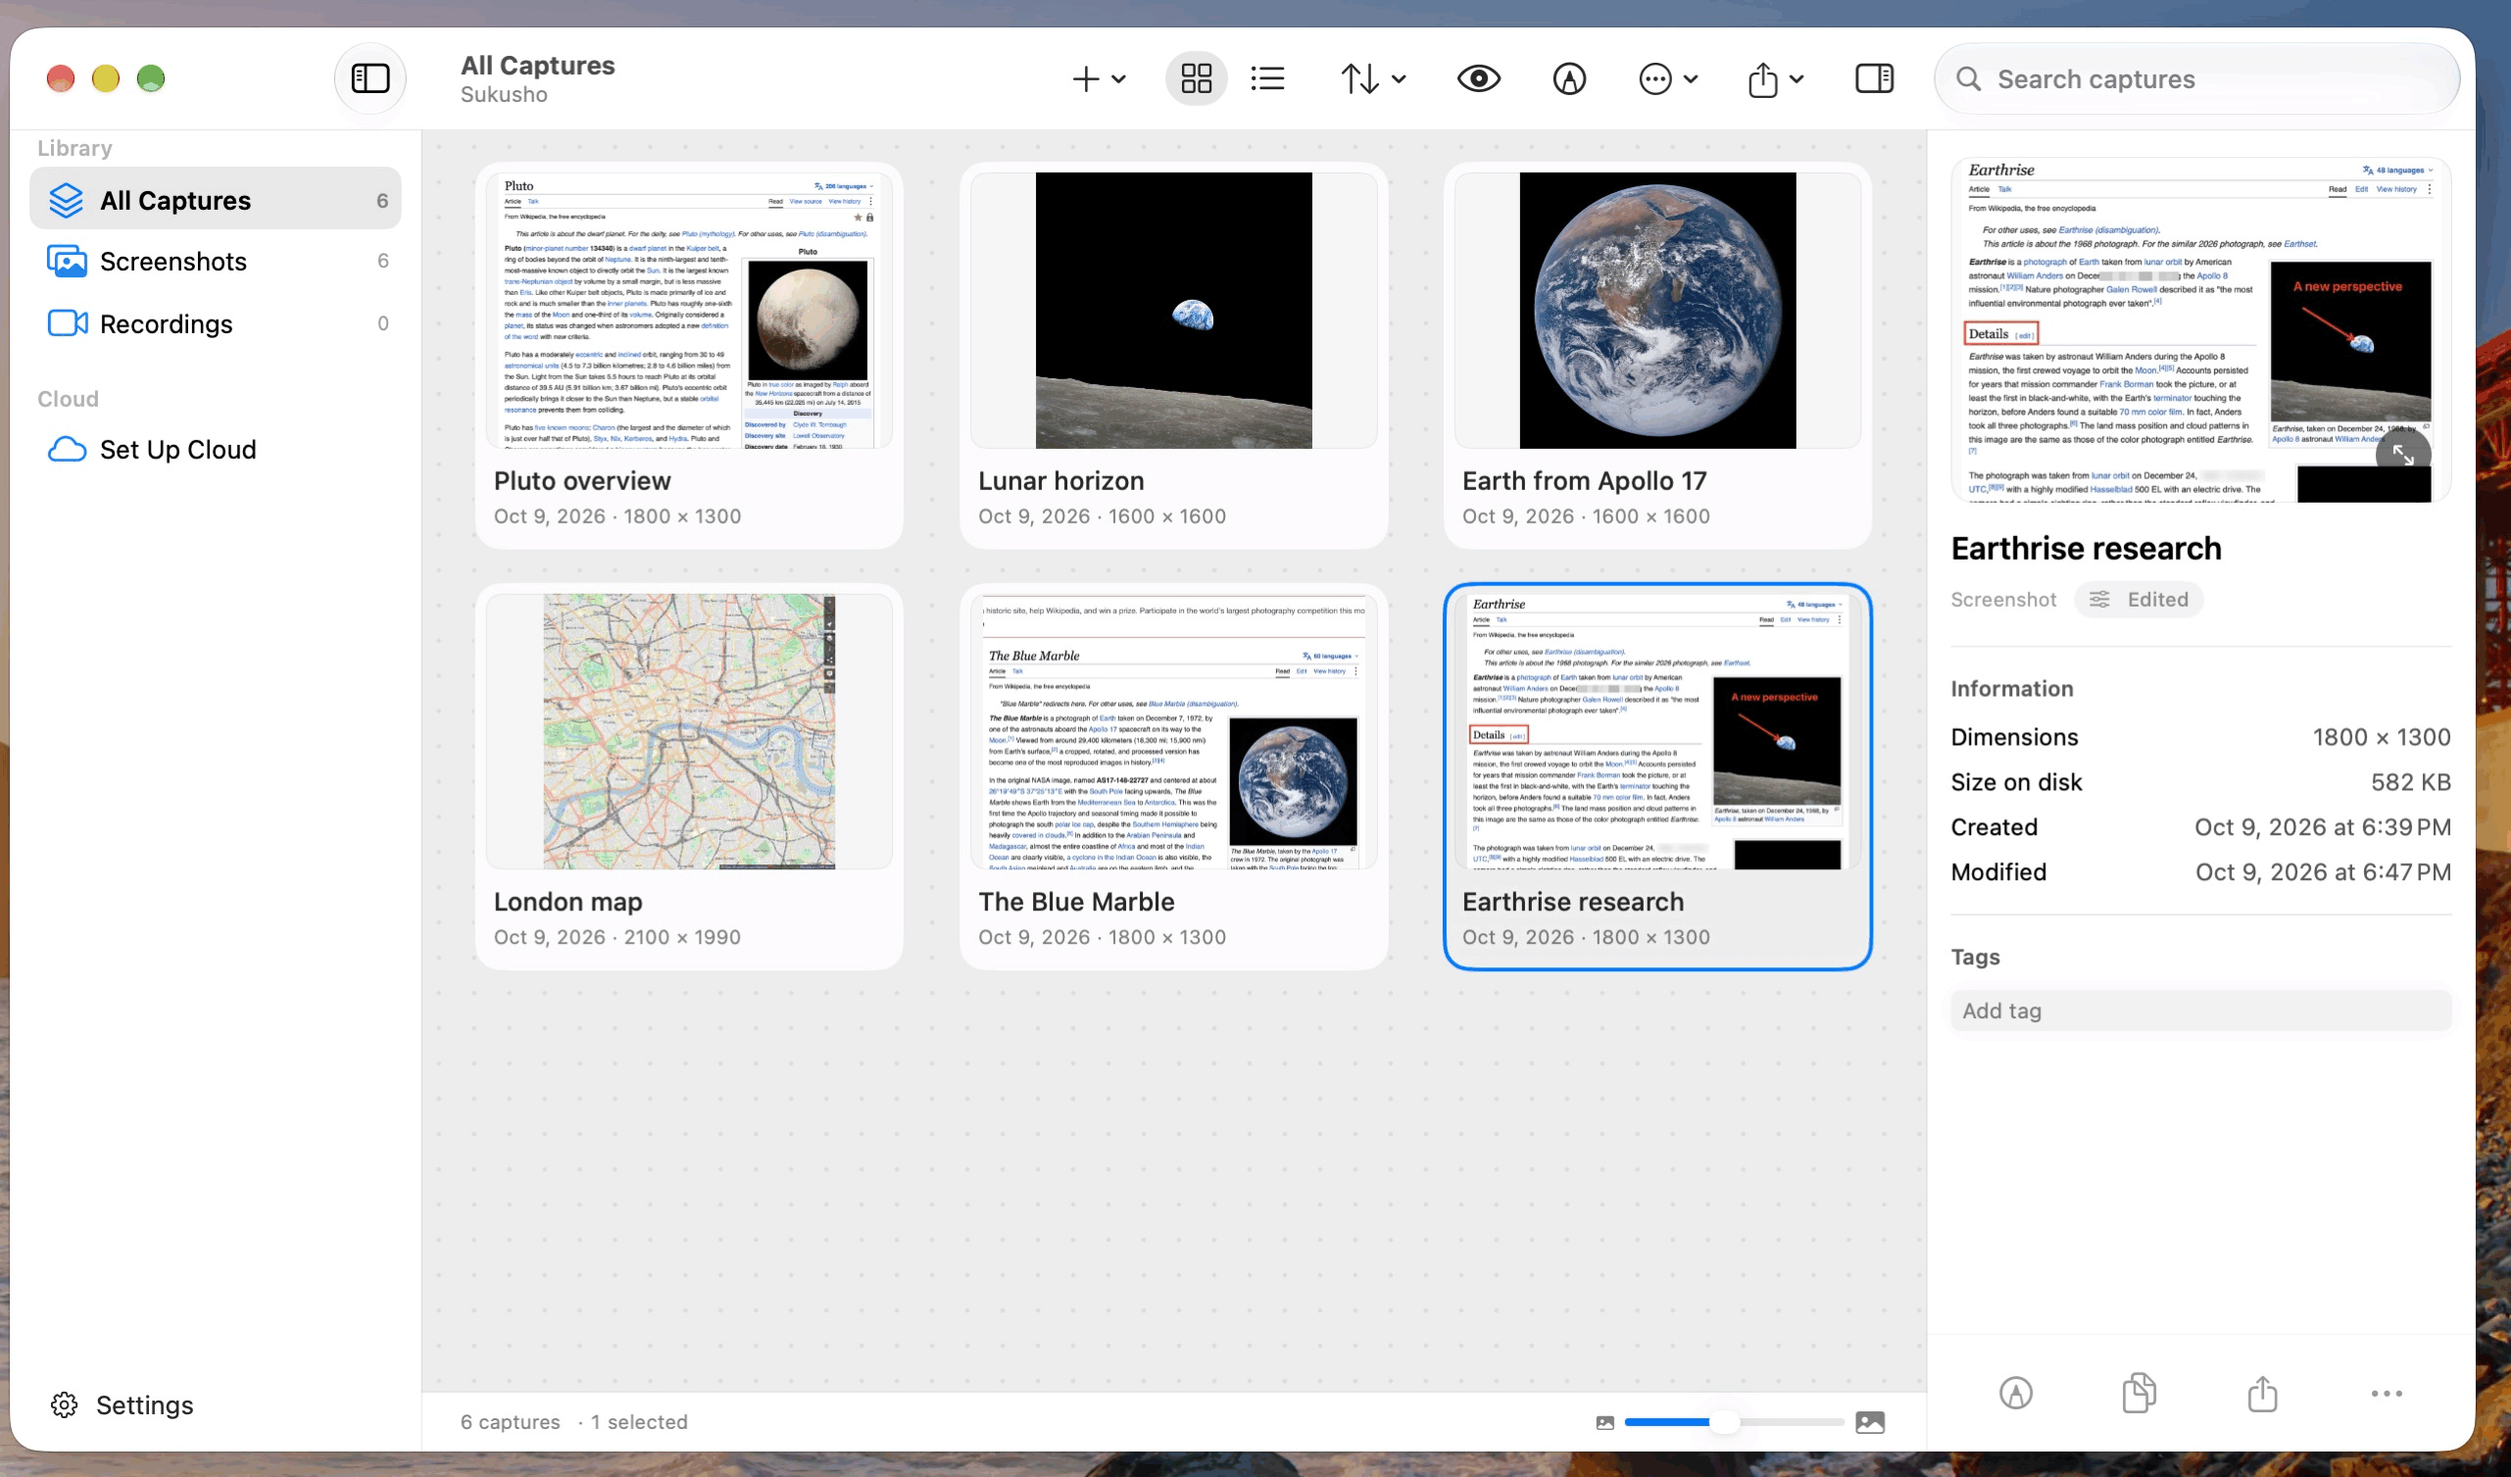
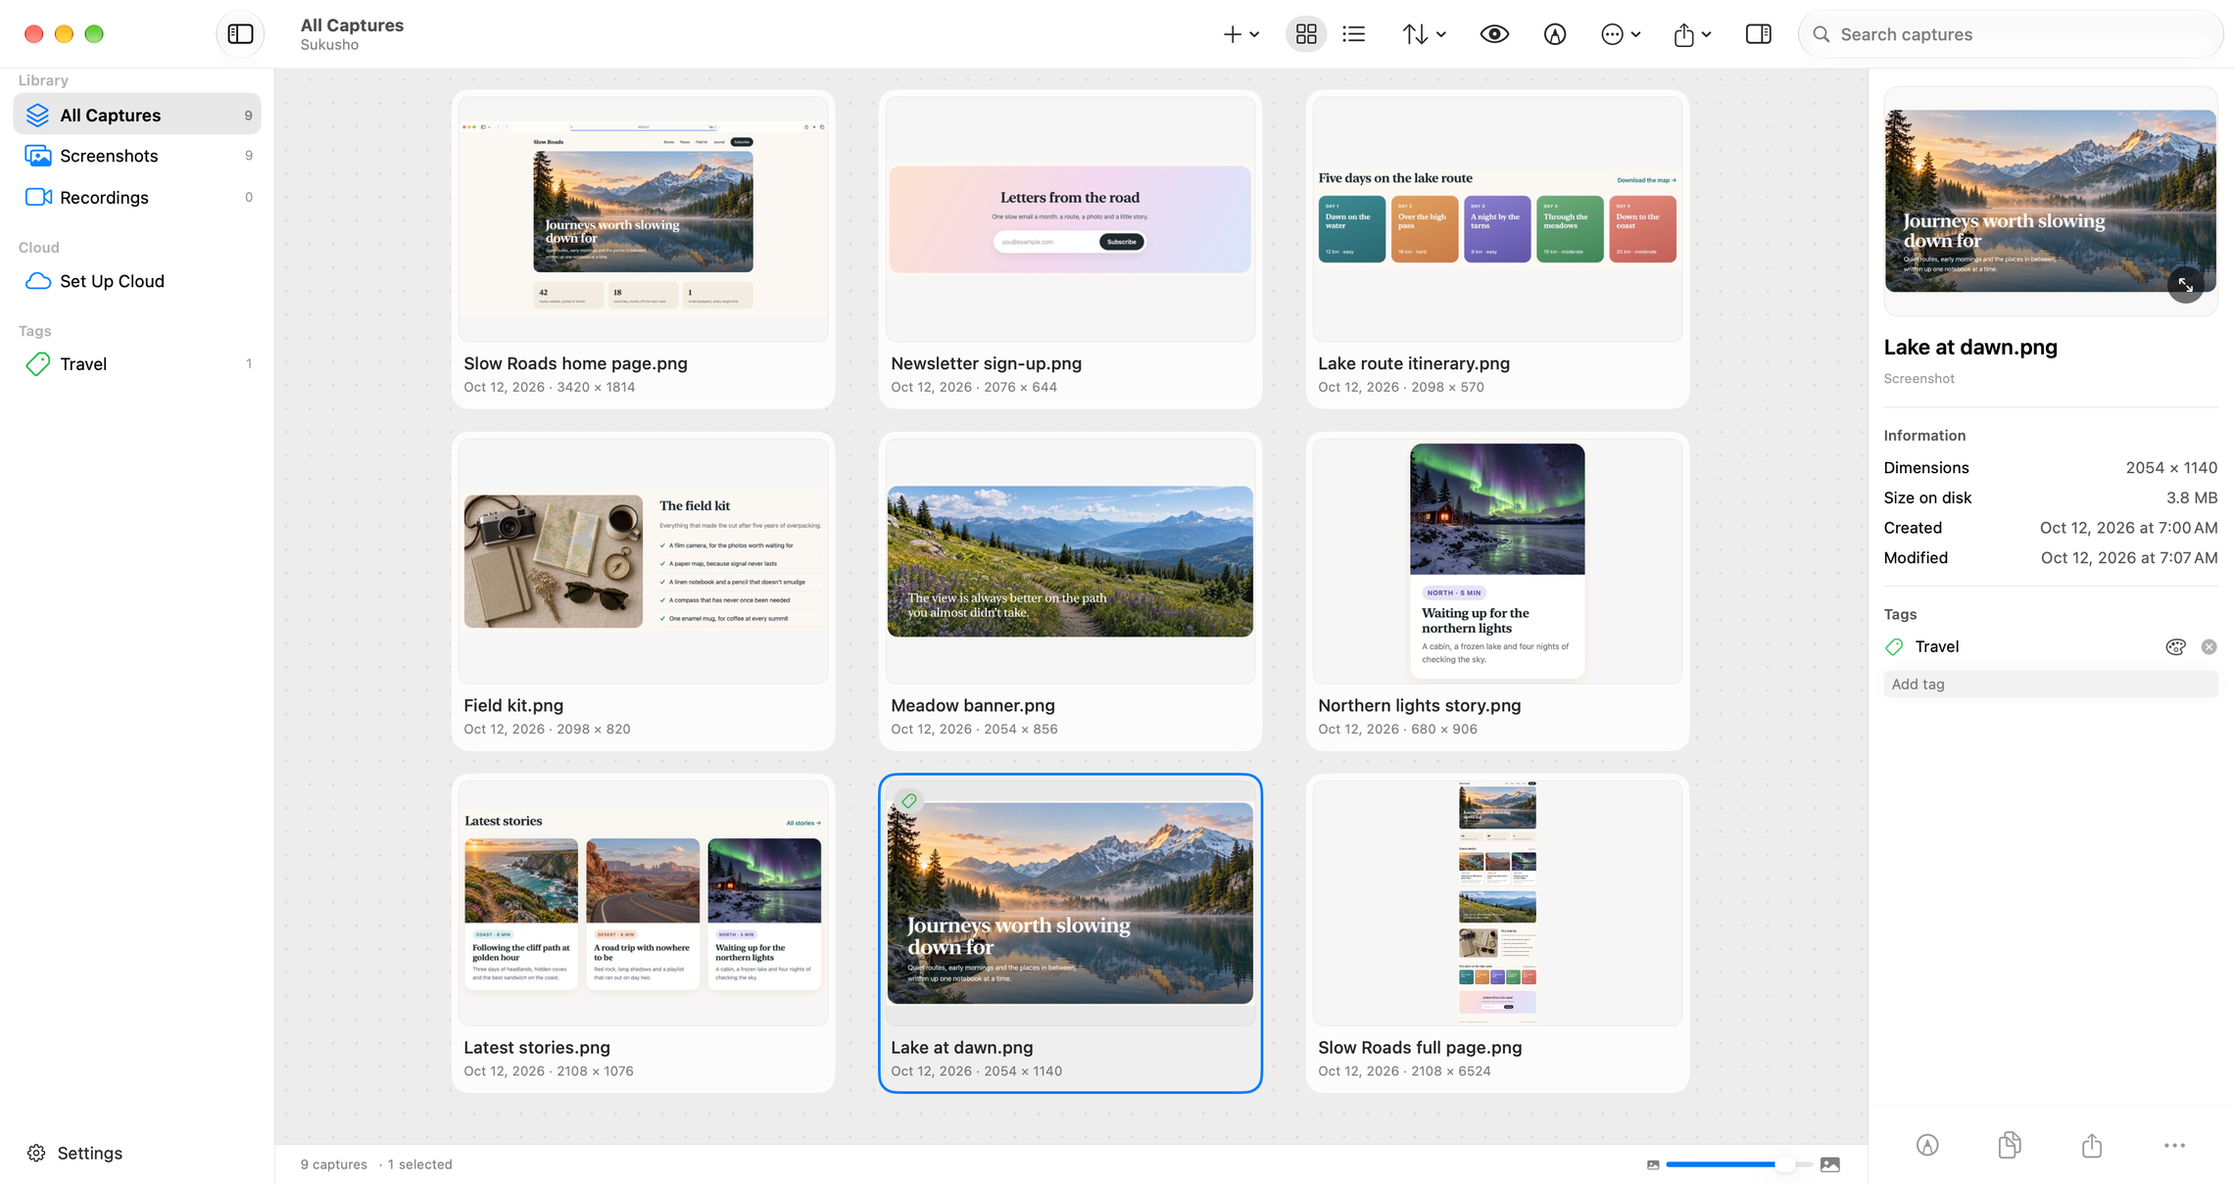
docs: show Sukusho on a demo travel page, and describe Scrolling Capture now
The Library and editor screenshots now show a demo page made for them,
with generated photos and a generated wallpaper, instead of Wikipedia
captures. A four-column Scrolling Capture of the whole page joins them.
The Scrolling Capture section covers auto-scroll, the exact-pixel check,
the capture bar's messages and the height limit, and drops the "last rows
kept" preview, which the current capture bar no longer shows.

diff --git a/README.md b/README.md
@@ -17,15 +17,17 @@ Sukusho started as a fork of [Screendrop](https://github.com/fayazara/Screendrop
 
 ## Screenshots
 
-The Library keeps captures together, with a grid and an inspector for the selected image.
+The Library keeps captures together, with a grid, tags and an inspector for the selected image.
 
-![Sukusho Library with Wikipedia page captures, a London map and NASA photographs](docs/screenshots/library.png)
+![Sukusho Library showing nine captures of a travel website in a grid, a green Travel tag in the sidebar, and the inspector for a mountain lake image](docs/screenshots/library.png)
 
-Annotate an image with arrows, text, shapes, pixelation and blur.
+The editor sets a capture on a background, with a camera angle and progressive blur, and annotates it with arrows, text, shapes, pixelation and blur.
 
-![Sukusho editor annotating the Earthrise article with an arrow, text, a rectangle, pixelation and blur](docs/screenshots/editor.png)
+![Sukusho editor showing a browser window capture tilted in perspective over a pastel sky wallpaper, with progressive blur settings in the sidebar](docs/screenshots/editor.png)
 
-[Image sources and licences](docs/screenshots/README.md): Wikipedia contributors (CC BY-SA 4.0), NASA imagery (public domain), and © OpenStreetMap contributors (ODbL).
+Scrolling Capture turns a whole page into one image. Auto-scroll captured this demo page from top to bottom and finished by itself; it's split into four columns here to fit.
+
+![A full-page Scrolling Capture of a travel website, 2,108 by 6,524 pixels, shown in four columns](docs/screenshots/scrolling-capture.png)
 
 ## Features
 
@@ -52,7 +54,14 @@ Change any of them in **Settings → General**. If a shortcut can't be registere
 
 ### Scrolling Capture
 
-Draw a box over a scrolling view, scroll through it at your own pace, and click **Done**. Sukusho lines up each new frame with the last one and adds only the rows that scrolled into view, giving one tall image up to 16,384 pixels high. If it loses its place, it shows the last rows it kept so you can scroll back to them, and **Done** always keeps what has been captured so far.
+Draw a box over a scrolling view, then scroll through it yourself or click the auto-scroll button on the capture bar. Sukusho lines up each new frame with the last one and adds only the rows that scrolled into view, giving one tall image up to 16,384 pixels high.
+
+- **Auto-scroll** moves the view a step at a time, paced by what has been captured, and finishes the capture by itself at the end of the page. It pauses while a frame doesn't fit and carries on once one does. Scrolling yourself or moving the pointer off the bar hands control back to you. Auto-scroll needs the Accessibility permission; the bar offers to open it.
+- **Every frame is checked before it's added.** Apple's Vision framework proposes where the new frame fits, and Sukusho adds it only once an exact pixel match confirms it. A frame that doesn't fit is skipped, not joined in the wrong place.
+- **The capture bar** stays quiet through brief misses. If frames keep failing to fit, it says **Scroll back a little** when the view has moved past where it can line up, or **Something on the page keeps changing** for a video, an animation or a hover.
+- **Done**, or `Control + Option + 4`, keeps everything captured so far. At the height limit the capture stops and waits for **Done**.
+
+Draw the box around the part that scrolls: a sidebar or button that stays put inside the box is repeated down the image.
 
 ### Library
 
